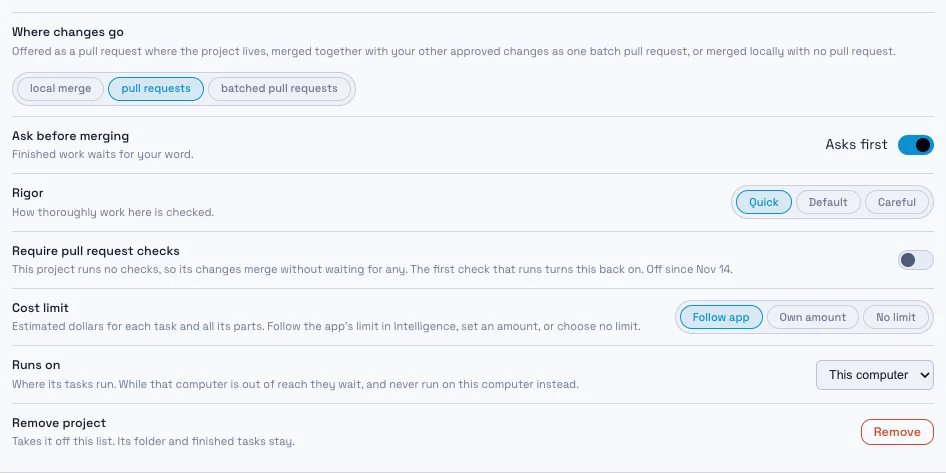
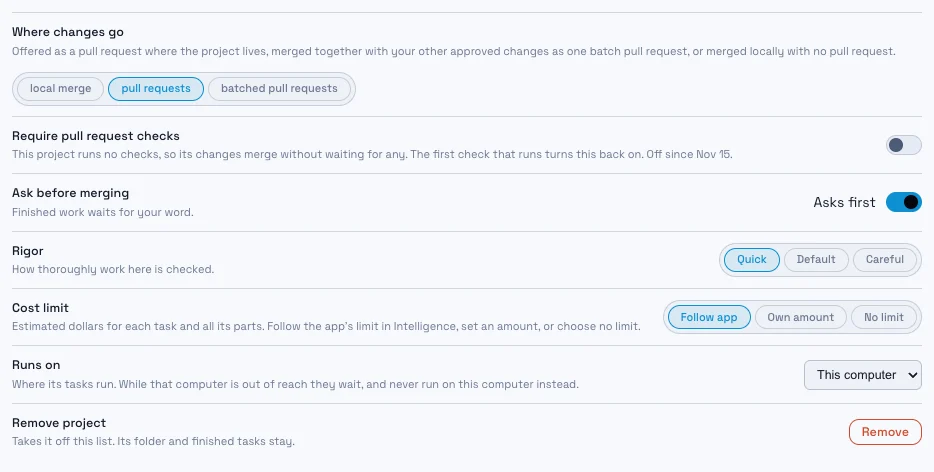
feat(projects): put Require pull request checks right below Where changes go
In Settings → Projects, Require pull request checks now comes right after Where changes go and its notes, before Ask before merging.

Pressing Tab from Where changes go now reaches the switch next.

diff --git a/tests/e2e/no-checks-project.spec.ts b/tests/e2e/no-checks-project.spec.ts
@@ -9,7 +9,7 @@ import { noChecksRecordSchema } from "../../src/shared/repos";
 import {
   MERGE_WHEN_CHECKS_PASS_WORDS,
   MERGE_WORDS,
-  RIGOR_WORDS,
+  PROJECT_DELIVERY_WORDS,
 } from "../../src/shared/vocabulary";
 import { scratchDir } from "../helpers/scratchDirs";
 import { cardBody } from "./frames";
@@ -33,8 +33,8 @@ const git = (...args: string[]) => execFileSync("git", args, { stdio: "pipe" }).
 /**
  * INF-2114, the captain's checked improvement: "A project with no checks is
  * a recorded fact: its card offers Merge now, nothing watches for two
- * hours", and the approved plan's choice to show it "in Settings → Projects,
- * as a switch beside Care" that the captain flips by keys.
+ * hours", shown in Settings → Projects as a switch the captain flips by
+ * keys, which the captain later moved to sit right below Where changes go.
  *
  * A project on GitHub whose pull requests run no checks: a local stand-in
  * GitHub serves the app's real sign-in, forge and merge and lists no check
@@ -99,21 +99,25 @@ test("a project recorded by keys as running no checks shows its merge card at on
           : null;
       });
 
-    // Settings → Projects: Require pull request checks sits after Care, on
-    // for a new project, and the captain turns it off by keys.
+    // Settings → Projects: Require pull request checks is the next control
+    // after Where changes go, on for a new project, and the captain turns it
+    // off by keys.
     await page.getByRole("button", { name: "Settings", exact: true }).click();
     await page.getByRole("tab", { name: "Projects", exact: true }).click();
     const row = projectRow(page, "repo-meterlab");
     const header = row.getByRole("button", { expanded: false });
     await expect(header).toBeVisible();
     await pressKey(header, "Enter");
-    const quick = row.getByRole("radio", { name: RIGOR_WORDS.quick });
-    await expect(quick).toBeChecked();
+    const pullRequests = row.getByRole("radio", {
+      name: PROJECT_DELIVERY_WORDS["direct-pr"],
+      exact: true,
+    });
+    await expect(pullRequests).toBeChecked();
     const require = row.getByRole("switch", { name: PROJECT_POLICY_WORDS.checksTitle });
     await expect(require).toHaveAttribute("aria-checked", "true");
     await expect(row).toContainText(PROJECT_POLICY_WORDS.checksOn);
-    await focusOn(quick);
-    await pressKey(quick, "Tab");
+    await focusOn(pullRequests);
+    await pressKey(pullRequests, "Tab");
     await expect(require).toBeFocused();
     await pressKey(require, "Space");
     await expect(require).toHaveAttribute("aria-checked", "false");

diff --git a/src/renderer/src/settings/ProjectsTab.tsx b/src/renderer/src/settings/ProjectsTab.tsx
@@ -704,6 +704,21 @@ function ProjectRow({
           {squashOnly && <BatchNote words={SQUASH_ONLY_WORDS} data="squash-only" id={repo.id} />}
           {ownBatch && <BatchNote words={BATCH_OWN_WORDS.note} data="own-batch" id={repo.id} />}
           {held?.hold && <BatchHoldPanel repo={repo} batch={{ ...held, hold: held.hold }} />}
+          {/* Right below Where changes go and its notes, since it says how those changes merge. */}
+          {readsPullRequestChecks(repo) && (
+            <PolicyRow
+              title={PROJECT_POLICY_WORDS.checksTitle}
+              description={PROJECT_POLICY_WORDS.checks(repo.noChecks)}
+              wrapsBesideControl
+              control={
+                <Switch
+                  checked={!repo.noChecks}
+                  aria-label={PROJECT_POLICY_WORDS.checksTitle}
+                  onChange={(requireChecks) => onPatch({ requireChecks })}
+                />
+              }
+            />
+          )}
           <PolicyRow
             title={AUTONOMY_SWITCH_NAME}
             description={PROJECT_POLICY_WORDS.asks(personal, repo.autonomy)}
@@ -742,20 +757,6 @@ function ProjectRow({
               )
             }
           />
-          {readsPullRequestChecks(repo) && (
-            <PolicyRow
-              title={PROJECT_POLICY_WORDS.checksTitle}
-              description={PROJECT_POLICY_WORDS.checks(repo.noChecks)}
-              wrapsBesideControl
-              control={
-                <Switch
-                  checked={!repo.noChecks}
-                  aria-label={PROJECT_POLICY_WORDS.checksTitle}
-                  onChange={(requireChecks) => onPatch({ requireChecks })}
-                />
-              }
-            />
-          )}
           {!personal && repo.costLimit !== undefined && (
             <PolicyRow
               title={PROJECT_COST_WORDS.title}
